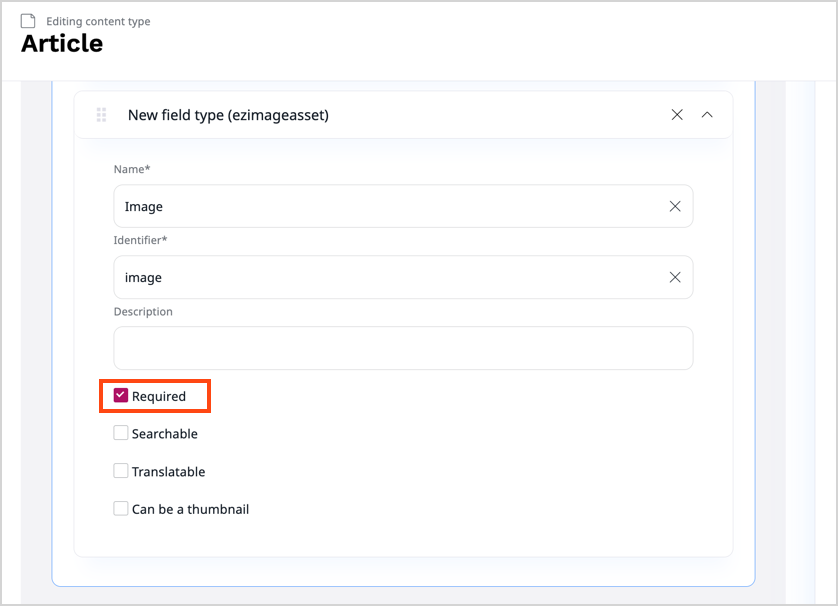
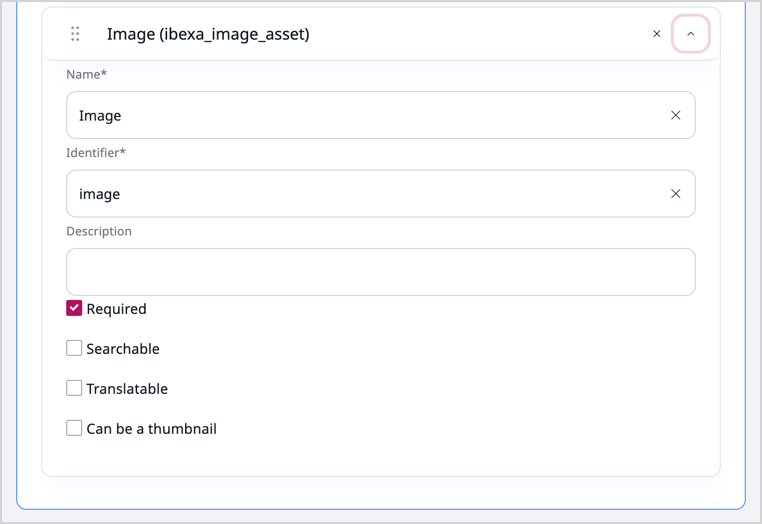
new fixes

diff --git a/docs/tutorials/page_and_form_tutorial/1_get_a_starter_website.md b/docs/tutorials/page_and_form_tutorial/1_get_a_starter_website.md
@@ -16,7 +16,7 @@ Get it by following the [Install Ibexa DXP](install_ibexa_dxp.md) guide.
 ## Add content types
 
 Log in to the back office – add `/admin` to your installation's address (`<yourdomain>/admin`) and log in as `admin` user using the password specified during installation.
-Disable the Focus mode, go to content types screen and (under the content category) add two content types with the following settings:
+Disable the Focus mode, go to content types screen and in the Content group add two content types with the following settings:
 
 ### Dog Breed
 
@@ -78,7 +78,7 @@ Place two configuration files in the `config/packages` folder:
 
 In the `assets` folder in the project root:
 
-- create a `css` folder and add the following stylesheet: [`style.css`](https://github.com/ibexa/documentation-developer/blob/5.0/code_samples/tutorials/page_tutorial_starting_point/assets/css/style.css) to it
+- in the `css` folder add the following stylesheet: [`style.css`](https://github.com/ibexa/documentation-developer/blob/5.0/code_samples/tutorials/page_tutorial_starting_point/assets/css/style.css) to it
 - add the [`header.jpg`](https://github.com/ibexa/documentation-developer/blob/5.0/code_samples/tutorials/page_tutorial_starting_point/assets/images/header.jpg) file to the `assets/images` folder
 
 In the `webpack.config.js` file in the project root folder, add the following line after `Encore.addEntry('app', './assets/app.js');`:
@@ -98,7 +98,7 @@ php bin/console cache:clear
 
     Compiling assets with Webpack Encore is explained in [the beginner tutorial](3_customize_the_front_page.md#configuring-webpack).
 
-In the `src` folder create a `QueryType` subfolder and add [`QueryType/MenuQueryType.php`](https://github.com/ibexa/documentation-developer/blob/5.0/code_samples/tutorials/page_tutorial_starting_point/src/QueryType/MenuQueryType.php) to it.
+In the `src` folder create a `QueryType` subfolder and add [`MenuQueryType.php`](https://github.com/ibexa/documentation-developer/blob/5.0/code_samples/tutorials/page_tutorial_starting_point/src/QueryType/MenuQueryType.php) to it.
 
 This file takes care of displaying the top menu (for more information, see [the documentation](content_queries.md#query-types)).
 
@@ -113,12 +113,12 @@ Now return to the back office and create some content for your website.
 First, you can hide unneeded content items from the project root.
 
 Go to **Content structure** and select "[[= product_name_base =]] Digital Experience Platform".
-In the **Sub-items** tab, select all the current sub-items and click the **Hide** icon:
+In the **Sub-items** tab, select all the current sub-items and click the **Hide Location** icon:
 
 ![Hiding content items you don't need](enterprise_tut_hide_content.png)
 
 Next, under "[[= product_name_base =]] Digital Experience Platform", create three Folders.
-Call them 'All Articles', 'Dog Breed Catalog' and 'All Tips'.
+Call them *All Articles*, *Dog Breed Catalog* and *All Tips*.
 Remember that you can **Save and close** them, but you should use the **Publish** button.
 
 Next, create a few content items of proper content types in each of these folders:

diff --git a/docs/tutorials/beginner_tutorial/8_enable_account_registration.md b/docs/tutorials/beginner_tutorial/8_enable_account_registration.md
@@ -174,7 +174,7 @@ Fill in the form and register a user.
 
 ## Set up Permissions
 
-Users created through the registration form are placed in the default user group (_Guest accounts_ for [[= product_name_exp =]] and _Customers_ for [[= product_name_com =]] edition).
+Users created through the registration form are placed in the default user group (_Guest accounts_ for [[= product_name_headless =]] and [[= product_name_exp =]], _Customers_ for [[= product_name_com =]] edition).
 The user you created has the roles assigned to this group.
 
 !!! tip
